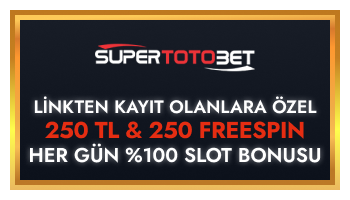
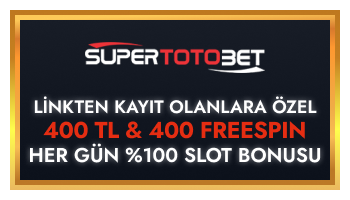
escobar

diff --git a/escobar/popup.css b/escobar/popup.css
@@ -52,3 +52,21 @@
   background: var(--primary);
   border-radius: 4px;
 }
+
+@media (max-width: 980px) {
+  .popup {
+    padding: 8px;
+  }
+  .popup > img {
+    max-width: 60px;
+  }
+  .popup > span {
+    font-size: 10px;
+    padding: 2px 6px;
+    white-space: nowrap;
+  }
+  .popup .bonus-wrapper {
+    font-size: 10px;
+    align-items: center;
+  }
+}

diff --git a/escobar/index.html b/escobar/index.html
@@ -125,7 +125,7 @@
             link: "https://cutt.ly/P3iOMaU",
             openInNewTab: true,
             vip: false,
-            offers: ["250 TL veya 250 Freespin", "Her Gün %100 Slot Bonusu"],
+            offers: ["400 TL veya 400 Freespin", "Her Gün %100 Slot Bonusu"],
           },
           {
             brand: "matadorbet",
